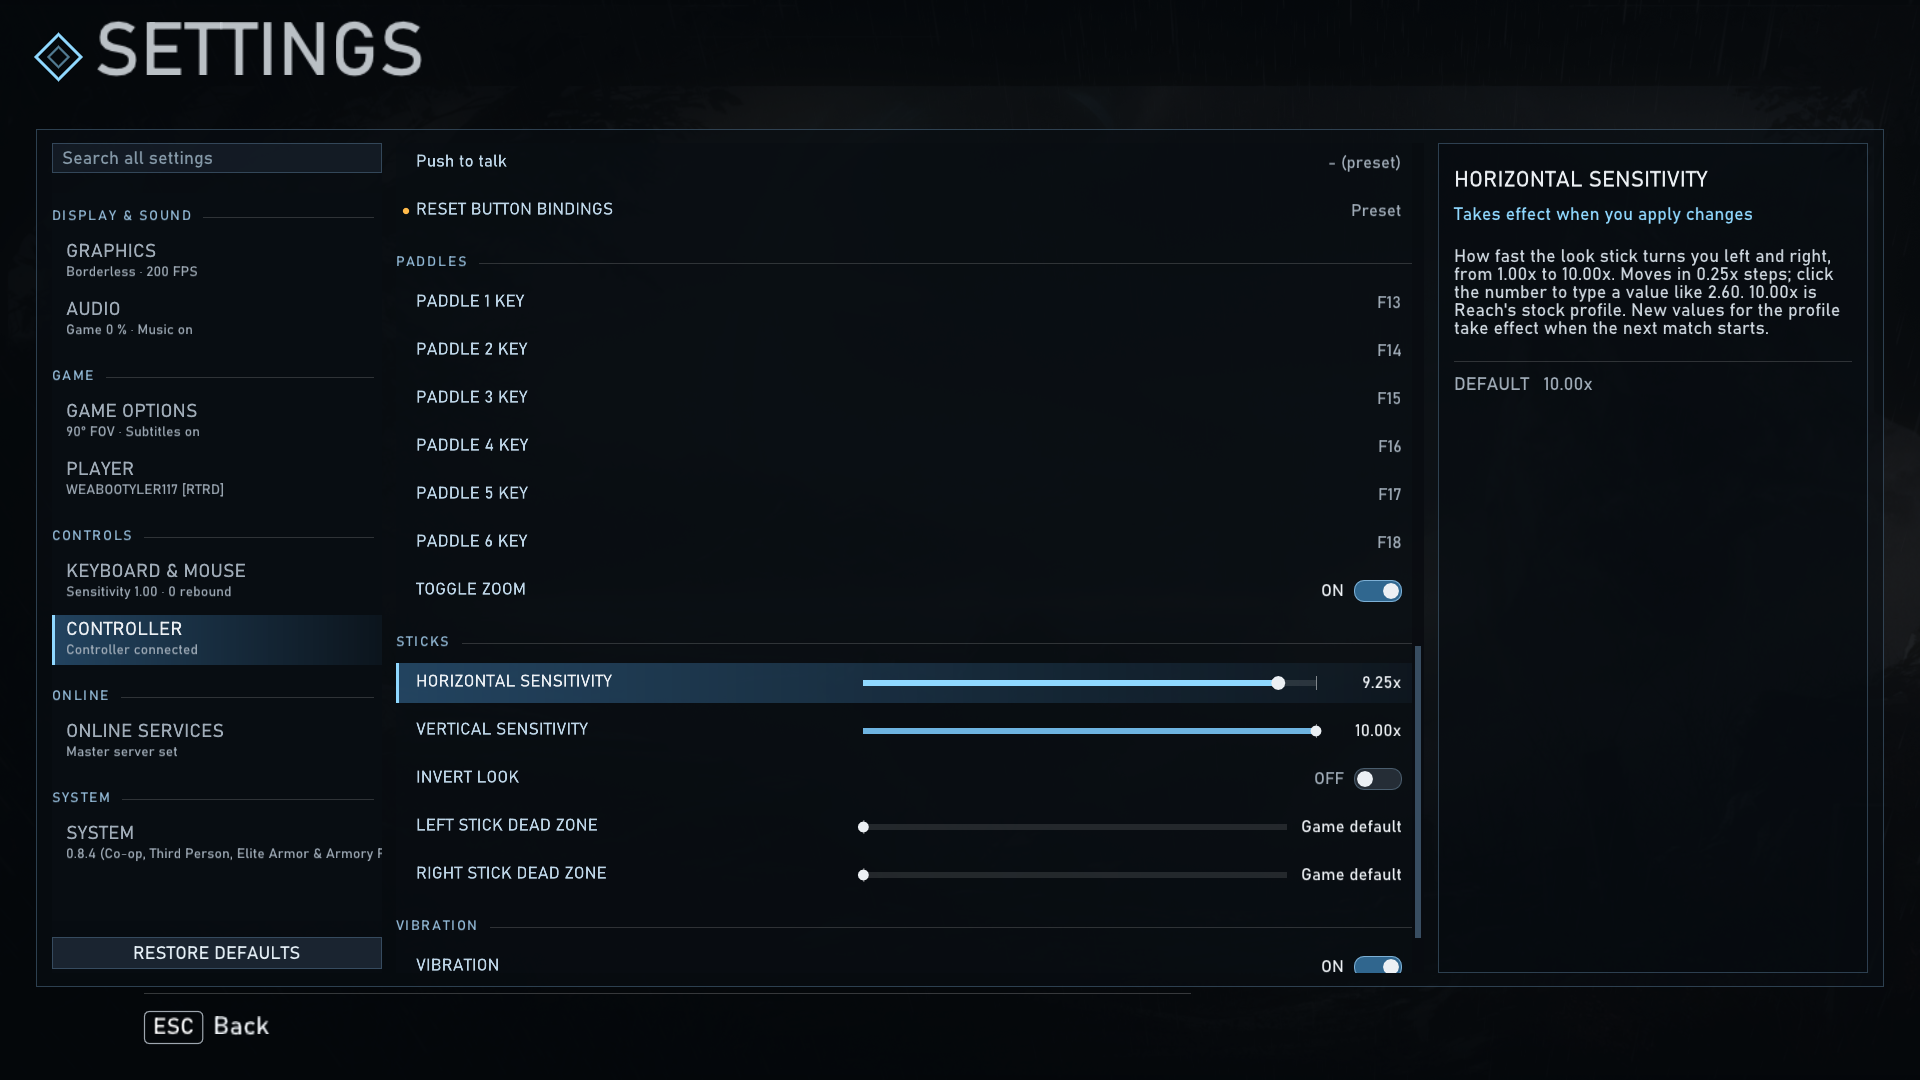
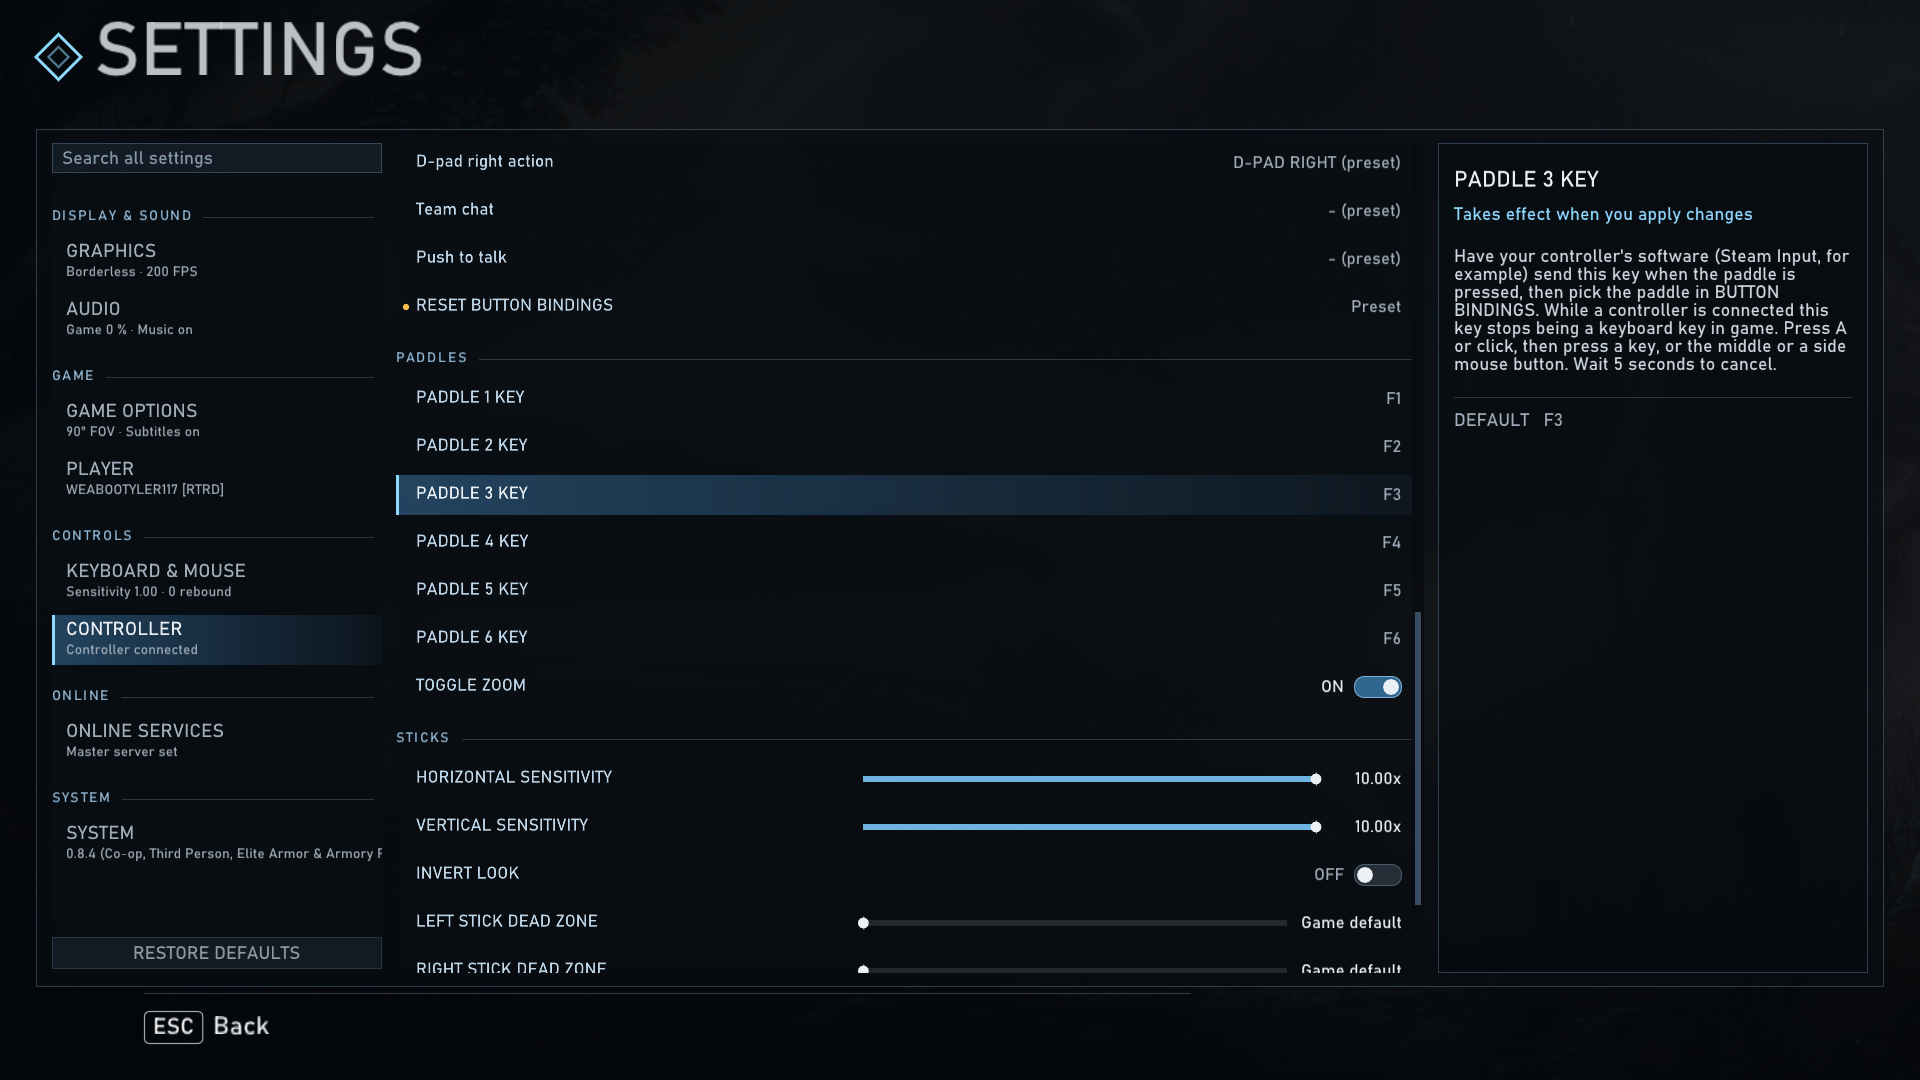
feat(input): paddle keys default to F1-F6; F5 stops toggling third person while it is a paddle
Tyler asked: not every keyboard has F13. Saved F13-F18 sets migrate; a set the player chose stays. F5 is the only conflict among F1-F6, so the third-person hotkey ignores it while a controller is connected and F5 is a paddle key.

Verified: build 0/0; self-tests pass; injected F1 bound Jump to Paddle 1 and F13-F18 migrated to F1-F6; in a real match injected F5 caused no camera toggle as a paddle and toggled on/off when moved off F5. Not run: a real paddle or Steam Input.

diff --git a/src/common/Settings.hpp b/src/common/Settings.hpp
@@ -40,8 +40,8 @@ struct SettingsData {
     float padLookSpeedX = 10.0f;   // controller look speed 1.00..10.00 (InputTuning maps it; 10 = the stock profile)
     float padLookSpeedY = 10.0f;   // vertical
     // Keyboard keys or mouse buttons treated as controller paddles 1-6 (virtual-key codes, 0 = none). Tools like Steam Input
-    // can send a key for each paddle. Default F13-F18, which no keyboard action uses.
-    std::array<int, 6> padPaddleKeys = { 0x7C, 0x7D, 0x7E, 0x7F, 0x80, 0x81 };
+    // can send a key for each paddle. Default F1-F6, which no keyboard action uses (F5 also toggles third person, see ReachHost).
+    std::array<int, 6> padPaddleKeys = { 0x70, 0x71, 0x72, 0x73, 0x74, 0x75 };
     bool padInvertLook = false;
     int padLayout = 0;             // Halo: Reach button layout (engine/PadLayouts.hpp); 0 = Default
     int padStickLayout = 0;        // 0 = Default (left moves, right looks), 1 = swapped. One "preset" row with padLayout

diff --git a/src/engine/ReachHost.cpp b/src/engine/ReachHost.cpp
@@ -1345,6 +1345,11 @@ bool ReachHost::IsKeyHeld(int vk) {
 // controller is connected: otherwise those keys are ordinary keys.
 static uint8_t s_paddlesHeld = 0;
 static bool s_padConnected = false;
+static std::array<int, PadLayouts::kPaddleCount> s_paddleKeys{};
+
+bool ReachHost::IsPaddleKey(int vk) {
+    return s_padConnected && std::find(s_paddleKeys.begin(), s_paddleKeys.end(), vk) != s_paddleKeys.end();
+}
 
 static void FillLocalPad(uint8_t* st, bool keyboardMouseUsed) {
     static bool s_padMode = false;
@@ -1605,7 +1610,6 @@ static void FillLocalInput(uint8_t* st) {
     }
 
     {
-        static std::array<int, PadLayouts::kPaddleCount> s_paddleKeys{};
         static ULONGLONG s_paddleRead = 0;
         if (GetTickCount64() - s_paddleRead > 500) {
             s_paddleRead = GetTickCount64();

diff --git a/src/ui/PauseMenu.cpp b/src/ui/PauseMenu.cpp
@@ -1386,7 +1386,8 @@ bool PauseMenu::HoldFrame() {
 void PauseMenu::RenderImpl(IDXGISwapChain *swapChain, bool loading,
                            bool clear) {
   // F5 edge-toggles the third-person camera (physical key; this runs every engine frame).
-  CameraThirdPerson::PollHotkey((GetAsyncKeyState(VK_F5) & 0x8000) != 0);
+  // Not while F5 is standing in for a controller paddle.
+  CameraThirdPerson::PollHotkey(!ReachHost::IsPaddleKey(VK_F5) && (GetAsyncKeyState(VK_F5) & 0x8000) != 0);
   const bool gameOver = s_gameOver.load();
   // -postgame-test: force the clean GAME OVER panel so its composition over the engine's post-game UI can be captured
   // without playing a match to its score limit.

diff --git a/src/common/Settings.cpp b/src/common/Settings.cpp
@@ -125,6 +125,8 @@ void Settings::Load() {
         for (size_t i = 0; i < d.padPaddleKeys.size(); ++i) {
             if (j["padPaddleKeys"][i].is_number_integer()) d.padPaddleKeys[i] = j["padPaddleKeys"][i].get<int>();
         }
+        // The first default was F13-F18; move anyone still on it to F1-F6. A set the player chose stays.
+        if (d.padPaddleKeys == std::array<int, 6>{ 0x7C, 0x7D, 0x7E, 0x7F, 0x80, 0x81 }) d.padPaddleKeys = SettingsData{}.padPaddleKeys;
     }
     if (j.contains("padBindings") && j["padBindings"].is_object()) {
         for (const auto& [key, value] : j["padBindings"].items()) {

diff --git a/src/engine/ReachHost.hpp b/src/engine/ReachHost.hpp
@@ -36,6 +36,8 @@ public:
     // True while the engine's own pad/keyboard state has this virtual key down (the same state the game reads, including
     // synthetic presses from test flags). Used by overlays that must appear exactly when the game shows a screen.
     static bool IsKeyHeld(int vk);
+    // True while a controller is connected and this key is one of the paddle keys, so it isn't a keyboard key right now.
+    static bool IsPaddleKey(int vk);
     uint32_t GetDisplayWidth() const { return m_displayWidth; }
     uint32_t GetDisplayHeight() const { return m_displayHeight; }
 

diff --git a/src/engine/KeyBindings.cpp b/src/engine/KeyBindings.cpp
@@ -157,7 +157,7 @@ const char* GroupName(ActionGroup group) {
 }
 
 std::string KeyName(int vk) {
-    if (vk >= VK_F13 && vk <= VK_F24) return "F" + std::to_string(vk - VK_F1 + 1);
+    if (vk >= VK_F1 && vk <= VK_F24) return "F" + std::to_string(vk - VK_F1 + 1);
     switch (vk) {
     case 0: return "-";
     case VK_LBUTTON: return "Left mouse";
